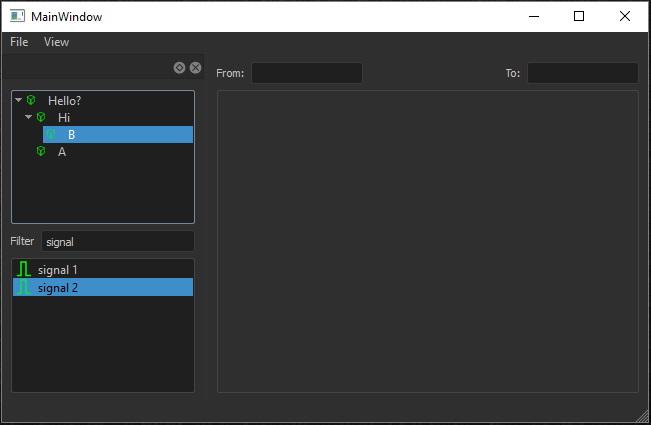
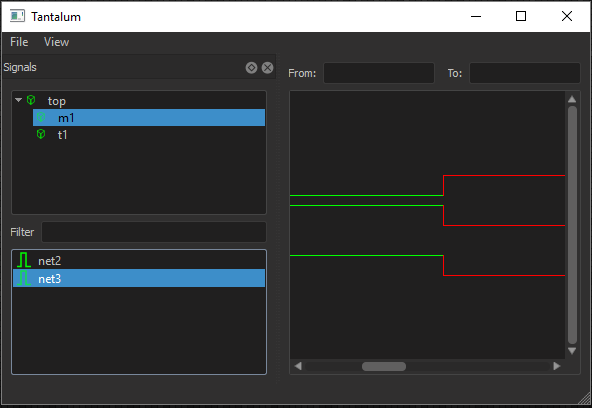
start displaying waveforms

diff --git a/src/main.py b/src/main.py
@@ -96,16 +96,19 @@ class Command:
 
 
 class ValueChange:
-    def __init__(self, val):
+    def __init__(self, val, time):
+        self.comtype = 'vc'
         self.val = val
         self.sid = None
+        self.time = int(time)
 
     def __str__(self):
-        return self.sid + '=' + self.val
+        return self.sid + '=' + self.val + ' @' + str(self.time)
 
 
 class SimulationTime:
     def __init__(self, time):
+        self.comtype = 'time'
         self.time = time
 
     def __str__(self):
@@ -128,7 +131,7 @@ sim_keywords = set(['$dumpall',
 scalars = ('0', '1', 'x', 'X', 'z', 'Z')
 vec_types = ('b', 'B', 'r', 'R')
 
-keywords = decl_keywords | sim_keywords
+keywords = decl_keywords
 
 
 class StateMachine:
@@ -144,10 +147,15 @@ class StateMachine:
         # list of completed commands
         self.command_stream = []
 
+        self.simtime = 0
+
     def start_state(self, word, word_stack):
-        if word in keywords:
+        if word in decl_keywords:
             self.current_command = Command(word[1:])
             return self.command_state
+        if word in sim_keywords or word == '$end':
+            # it looks the same as a value change
+            return self.start_state
 
         # otherwise only consume one character
         # there is no guaranteed whitespace before next token
@@ -157,7 +165,7 @@ class StateMachine:
             return self.time_state
 
         # otherwise it's one of the value changes
-        self.current_command = ValueChange(word[0].lower())
+        self.current_command = ValueChange(word[0].lower(), self.simtime)
 
         # scalar values are one character so goto sid
         if word.startswith(scalars):
@@ -185,6 +193,7 @@ class StateMachine:
 
     def time_state(self, word, word_stack):
         time = SimulationTime(word)
+        self.simtime = time.time
         self.command_stream.append(time)
         return self.start_state
 
@@ -235,14 +244,76 @@ def get_header(file_name):
                 return header
 
 
+def get_signal_changes(file_name, signal_id):
+    with open(file_name) as f:
+        for com in generate_commands(f):
+            if com.comtype == 'vc':
+                if com.sid != signal_id:
+                    continue
+                yield com
+
+
 class MyScene(QGraphicsScene):
+    def __init__(self):
+        super(MyScene, self).__init__()
+        self.activeSignals = []
 
     def dragEnterEvent(self, e):
         e.acceptProposedAction()
 
     def dropEvent(self, e):
-        data = e.mimeData().text()
-        self.addText(data)
+        sid = e.mimeData().text()
+        print 'received sid: ' + sid
+        signal = [s for s in get_signal_changes(self.fname, sid)]
+        index = len(self.activeSignals)
+        currTime = None
+        currValue = None
+        lastY = None
+        for change in signal:
+            print change
+            if currTime is not None:
+                if currValue == 'x':
+                    self.addLine(currTime,
+                                 index * 50,
+                                 change.time,
+                                 index * 50,
+                                 QPen(Qt.red))
+                    if lastY is not None and lastY is not 0:
+                        self.addLine(currTime,
+                                     index * 50,
+                                     currTime,
+                                     index * 50 + lastY,
+                                     QPen(Qt.red))
+                    lastY = 0
+                elif currValue == '0':
+                    self.addLine(currTime,
+                                 index * 50 + 20,
+                                 change.time,
+                                 index * 50 + 20,
+                                 QPen(Qt.green))
+                    if lastY is not None and lastY is not 20:
+                        self.addLine(currTime,
+                                     index * 50 + 20,
+                                     currTime,
+                                     index * 50 + lastY,
+                                     QPen(Qt.green))
+                    lastY = 20
+                elif currValue == '1':
+                    self.addLine(currTime,
+                                 index * 50 - 20,
+                                 change.time,
+                                 index * 50 - 20,
+                                 QPen(Qt.green))
+                    if lastY is not None and lastY is not -20:
+                        self.addLine(currTime,
+                                     index * 50 - 20,
+                                     currTime,
+                                     index * 50 + lastY,
+                                     QPen(Qt.green))
+                    lastY = -20
+            currTime = change.time
+            currValue = change.val
+        self.activeSignals.append(signal)
 
     def dragMoveEvent(self, e):
         e.acceptProposedAction()
@@ -254,7 +325,8 @@ class SigListModel(QStandardItemModel):
 
     def mimeData(self, indices):
         data = QMimeData()
-        data.setText(self.item(0).data().signame)
+        siginfo = self.item(0).data()
+        data.setText(siginfo.sid)
         return data
 
 
@@ -301,6 +373,7 @@ class MainApp():
                                                "",
                                                "Waveform Files (*.vcd)")
         if fname:
+            self.scene.fname = fname
             head = get_header(fname)
             self.window.treeWidget.clear()
             root = self.loadScopes(head.rootscope, self.window.treeWidget)
